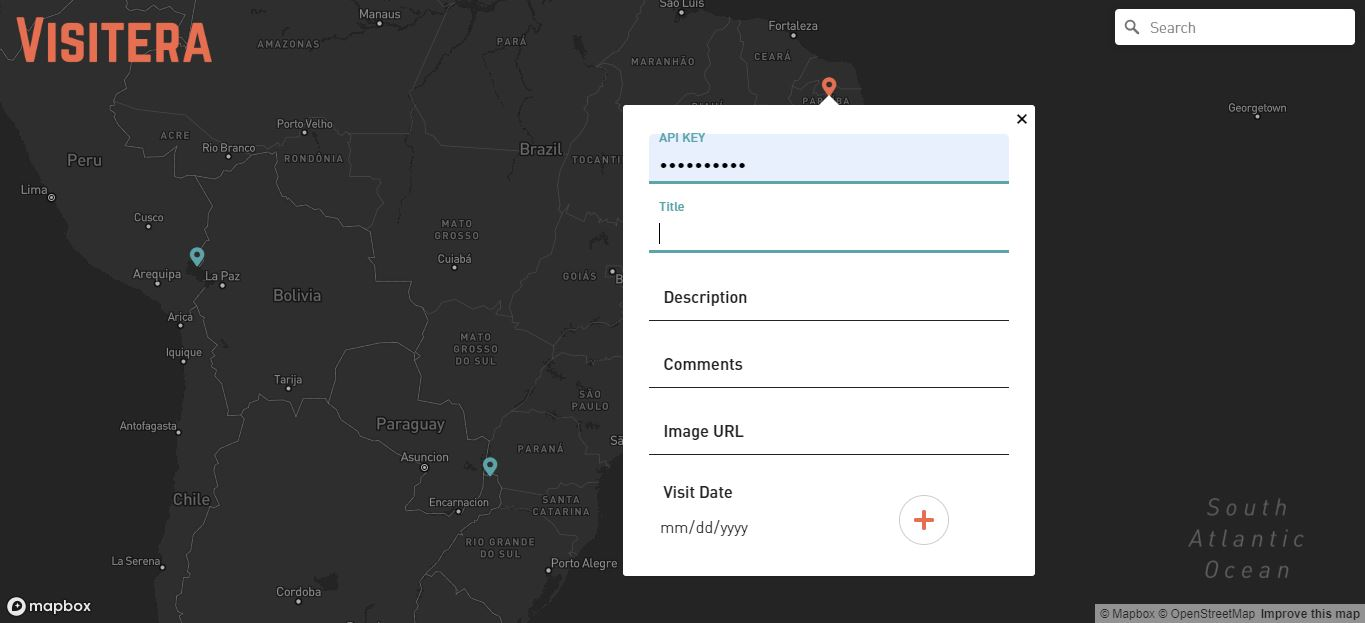
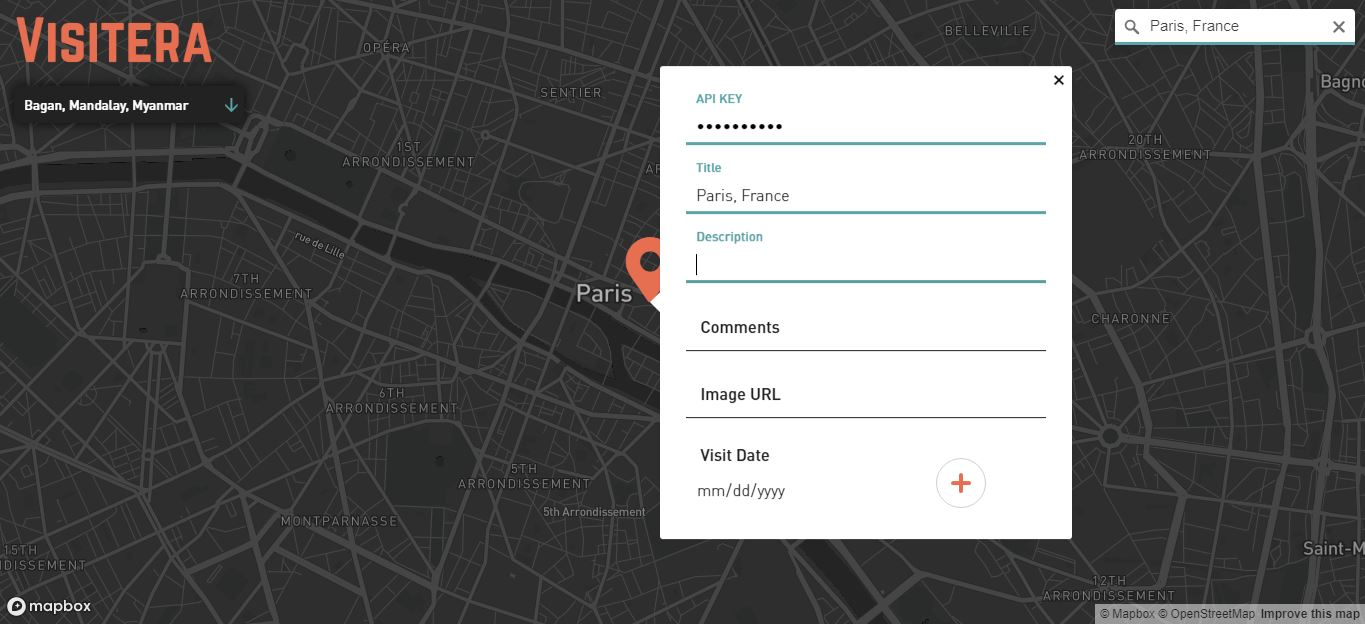
added setViewport function to handleDropdownChange so that lat and lng update to take user to that marker

diff --git a/client/src/App.js b/client/src/App.js
@@ -1,6 +1,7 @@
 import React, { useState, useEffect } from "react";
-import ReactMapGL, { Marker, Popup } from "react-map-gl";
+import ReactMapGL, { Marker, Popup, FlyToInterpolator } from "react-map-gl";
 import Geocoder from "react-map-gl-geocoder";
+import * as d3 from "d3-ease";
 import "react-map-gl-geocoder/dist/mapbox-gl-geocoder.css";
 import { listLogEntries } from "./API";
 import LogEntryForm from "./components/LogEntryForm";
@@ -41,12 +42,26 @@ const App = () => {
   };
 
   const handleDropdownChange = (event) => {
+    var val = event.target.value;
+    var valArray = val.split(",");
+    var entryId = valArray[0];
+
     setSelectedTrip({
       dropdownVal: event.target.value,
     });
 
     setShowPopup({
-      [event.target.value]: true,
+      [entryId]: true,
+    });
+
+    setViewport({
+      ...viewport,
+      latitude: parseInt(valArray[1]),
+      longitude: parseInt(valArray[2]),
+      zoom: 5,
+      transitionDuration: 5000,
+      transitionInterpolator: new FlyToInterpolator(),
+      transitionEasing: d3.easeCubic,
     });
   };
 
@@ -70,7 +85,11 @@ const App = () => {
             value={selectedTrip.dropdownVal}
           >
             {logEntries.map((entry) => (
-              <option className="trip-option" key={entry._id} value={entry._id}>
+              <option
+                className="trip-option"
+                key={entry._id}
+                value={[entry._id, entry.latitude, entry.longitude]}
+              >
                 {entry.title}
               </option>
             ))}
